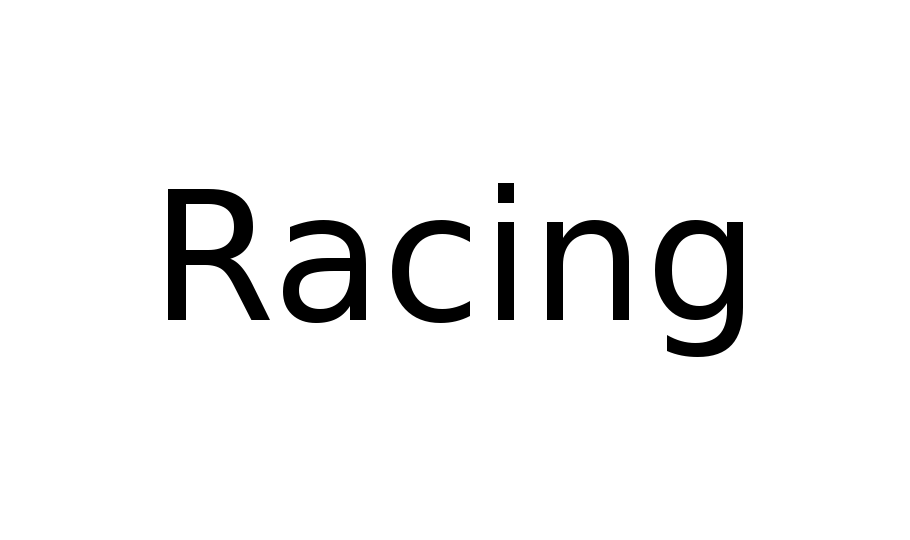
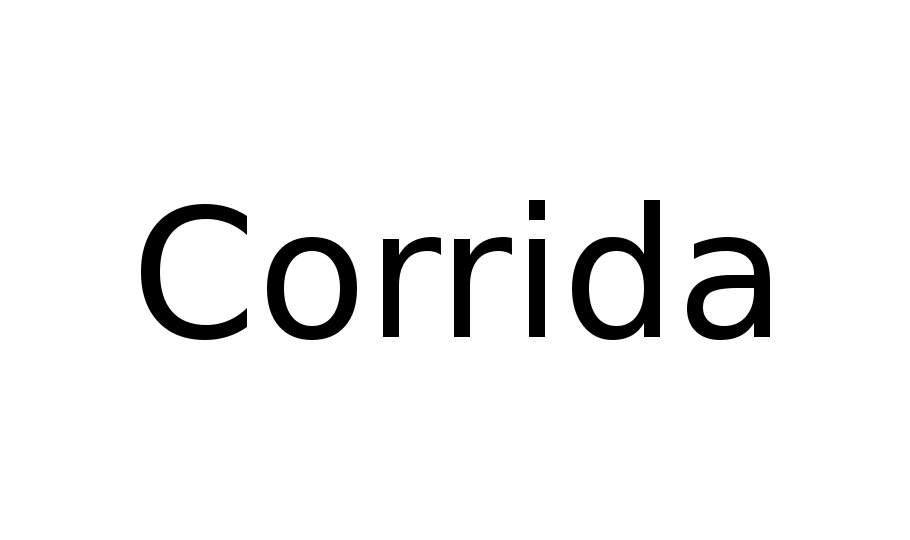
Passagem de tag para português; Diminuição dos tempos de transição

Changed region(s): [[0.1538, 0.3259, 0.8615, 0.6815]]

diff --git a/GammaGames/api/Menu.qml b/GammaGames/api/Menu.qml
@@ -40,12 +40,12 @@ Rectangle {
             SequentialAnimation {
                 NumberAnimation {
                     target: carousel_tag
-                    duration: 1000
+                    duration: 750
                     properties: "scale,opacity"
                 }
                 NumberAnimation {
                     target: carousel_game
-                    duration: 1000
+                    duration: 750
                     properties: "scale,opacity"
                 }
             }
@@ -56,12 +56,12 @@ Rectangle {
             SequentialAnimation {
                 NumberAnimation {
                     target: carousel_game
-                    duration: 1000
+                    duration: 750
                     properties: "scale,opacity"
                 }
                 NumberAnimation {
                     target: carousel_tag
-                    duration: 1000
+                    duration: 750
                     properties: "scale,opacity"
                 }
             }
@@ -113,7 +113,7 @@ Rectangle {
         transitions: [
             Transition {
                 NumberAnimation {
-                    duration: 1250;
+                    duration: 1000;
                     properties: "x,y,height,width"
                 }
             }
@@ -134,6 +134,7 @@ Rectangle {
             rotateTimerTag.stop();
             sceneLoader.lastChosenIndex = currentIndex;
             screen.state = "game";
+            carousel_game.currentIndex = 0;
             carousel_game.model = currentItem.games;
         }
 
@@ -187,6 +188,7 @@ Rectangle {
         preferredHighlightBegin: 0
         preferredHighlightEnd: 0
         highlightRangeMode: PathView.StrictlyEnforceRange
+        currentIndex: 0
 
         delegate: gameDelegate
     }
